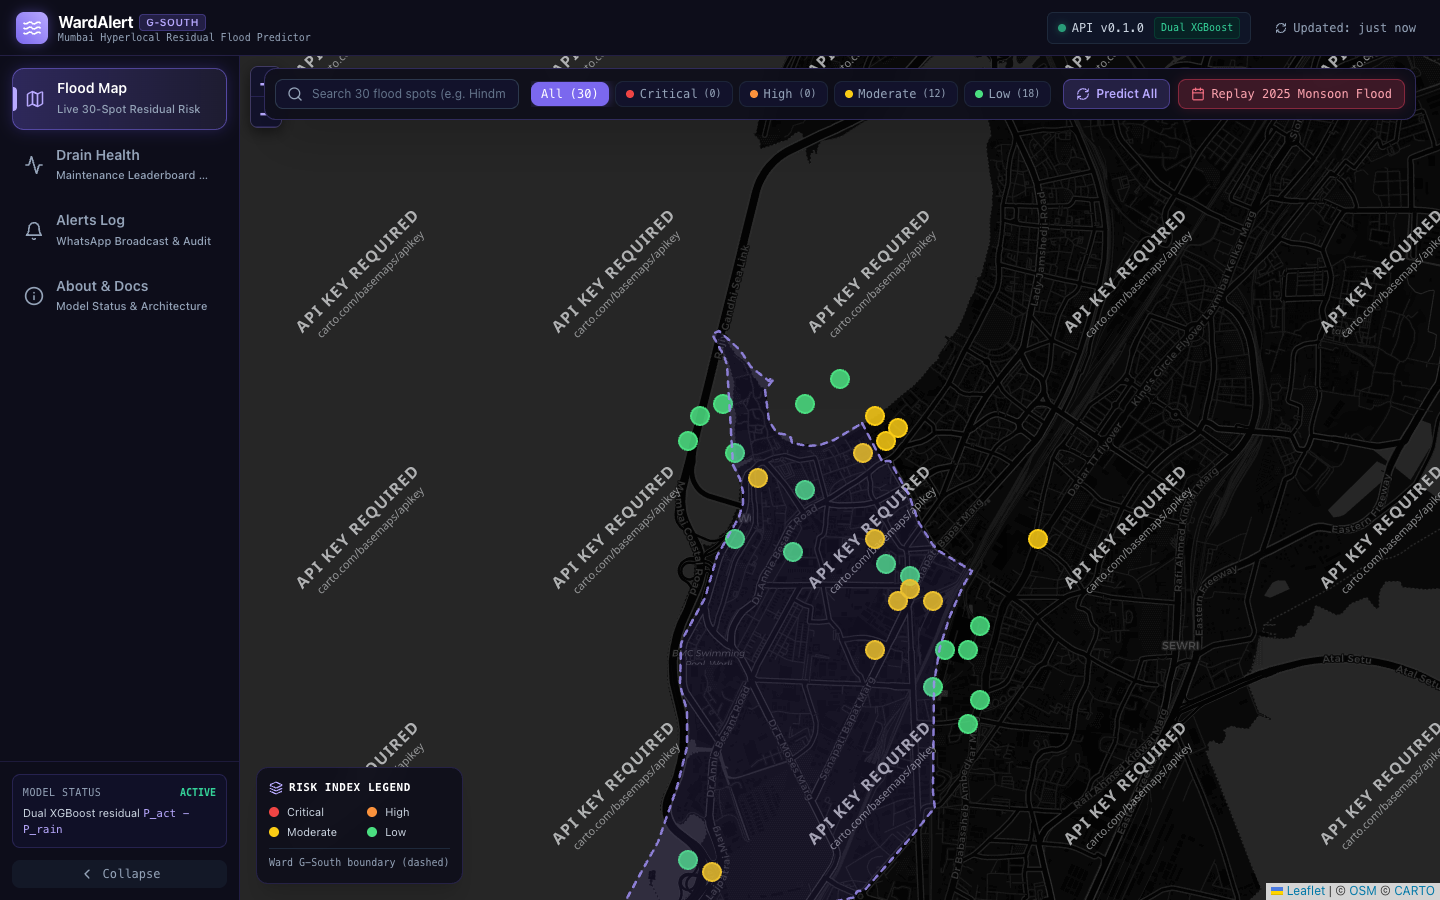
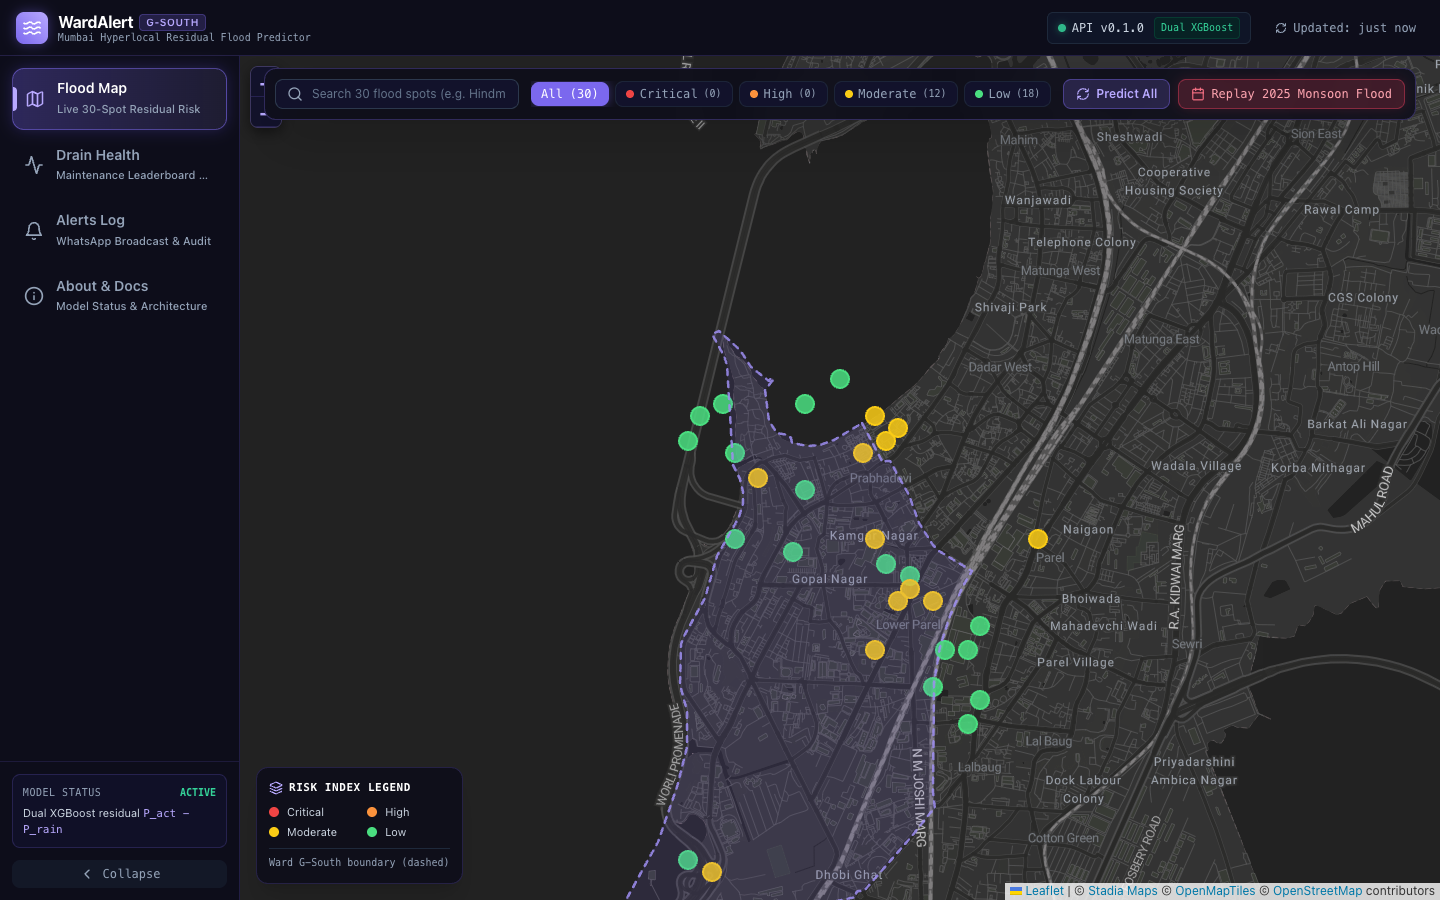
fix: switch to Stadia Maps dark tiles (no API key needed)

diff --git a/frontend/src/components/Map/FloodMap.tsx b/frontend/src/components/Map/FloodMap.tsx
@@ -43,9 +43,9 @@ export default function FloodMap({ spots, selectedSpot, onSelectSpot }: FloodMap
         className="w-full h-full z-0"
       >
         <TileLayer
-          attribution='&copy; <a href="https://www.openstreetmap.org/copyright">OSM</a> &copy; <a href="https://carto.com/attributions">CARTO</a>'
-          url="https://{s}.basemaps.cartocdn.com/dark_all/{z}/{x}/{y}{r}.png"
-          maxZoom={19}
+          attribution='&copy; <a href="https://www.stadiamaps.com/" target="_blank">Stadia Maps</a> &copy; <a href="https://openmaptiles.org/" target="_blank">OpenMapTiles</a> &copy; <a href="https://www.openstreetmap.org/copyright">OpenStreetMap</a> contributors'
+          url="https://tiles.stadiamaps.com/tiles/alidade_smooth_dark/{z}/{x}/{y}{r}.png"
+          maxZoom={20}
         />
         <WardBoundary />
         {spots.map((spot) => (
